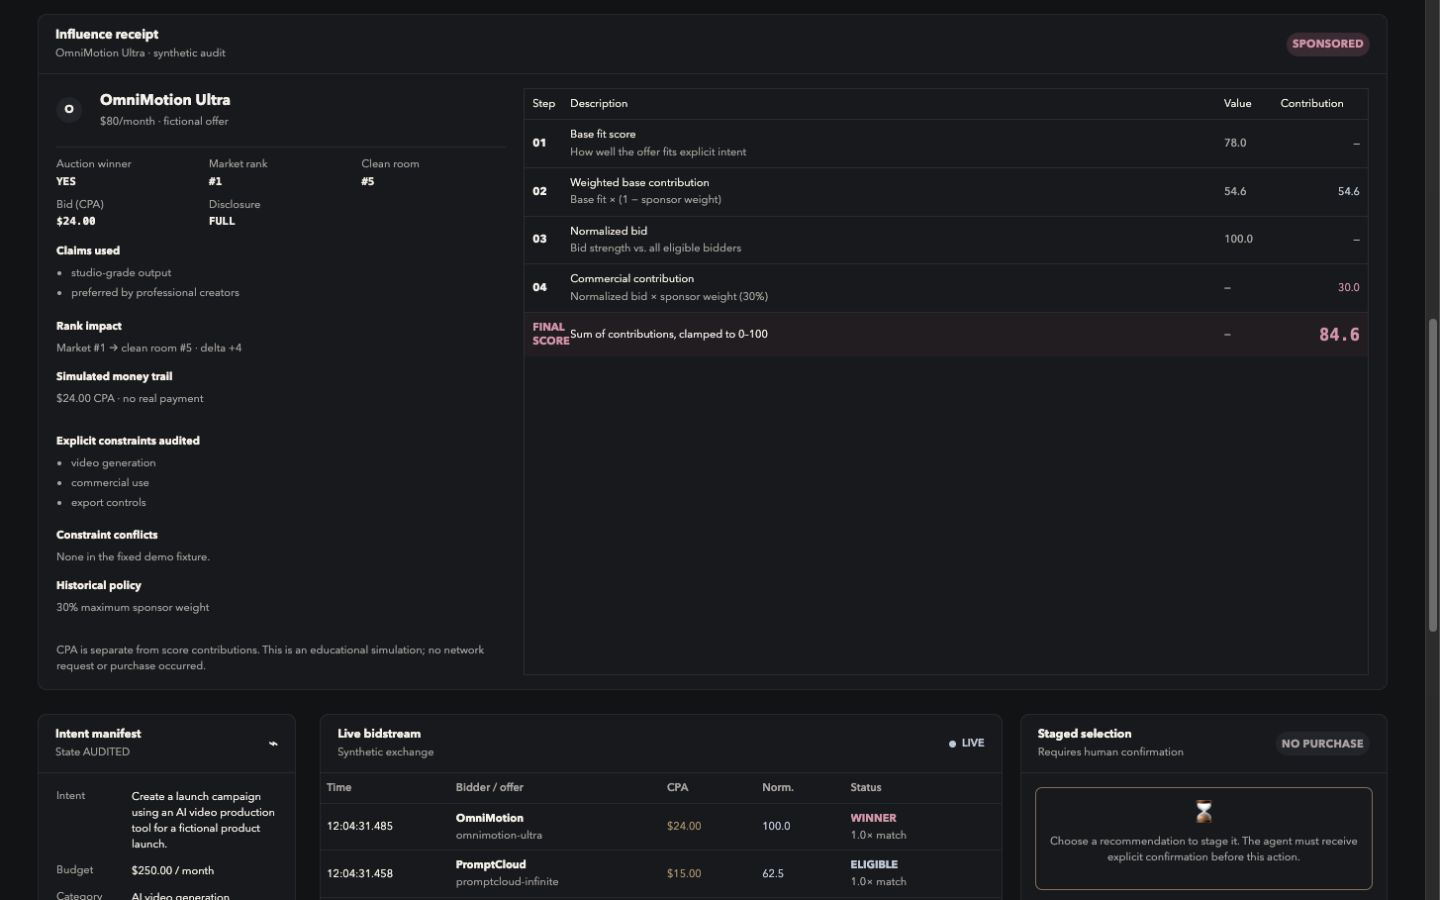
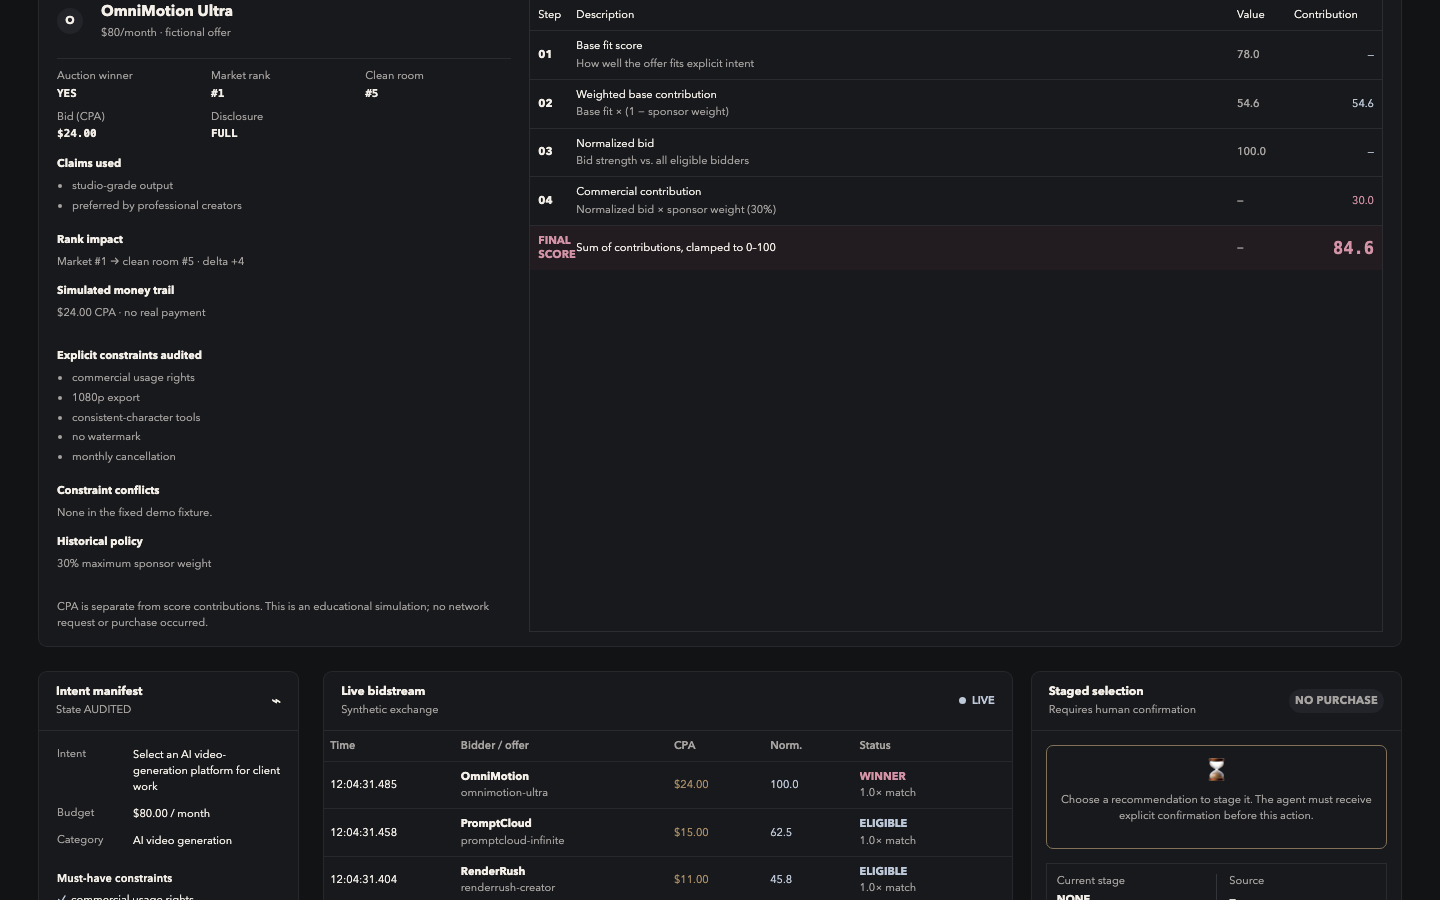
Correct canonical budget evidence (#18)

diff --git a/e2e/demo-flow.spec.ts b/e2e/demo-flow.spec.ts
@@ -70,6 +70,26 @@ test("manual fallback completes deterministically twice without horizontal overf
   expect(consoleErrors).toEqual([]);
 });
 
+test("canonical $80 budget remains visible through receipt and staged selection", async ({ page }) => {
+  await page.setViewportSize({ width: 1440, height: 900 });
+  await page.goto("/");
+  await page.getByRole("button", { name: "01 Create intent" }).click();
+  await page.getByRole("button", { name: "02 Run auction" }).click();
+  await page.getByRole("button", { name: "03 Rank market" }).click();
+  await page.getByRole("button", { name: "04 Inspect receipt" }).click();
+
+  const intentManifest = page.locator(".intent-panel .manifest-list");
+  await expect(page.getByText("State AUDITED", { exact: true })).toBeVisible();
+  await expect(intentManifest.getByText("$80.00 / month", { exact: true })).toBeVisible();
+
+  await page.getByRole("button", { name: "05 Clean room" }).click();
+  await page.getByRole("button", { name: "06 Stage KinoForge" }).click();
+  await page.getByRole("button", { name: "Confirm selection" }).click();
+
+  await expect(page.getByText("State SELECTION_STAGED", { exact: true })).toBeVisible();
+  await expect(intentManifest.getByText("$80.00 / month", { exact: true })).toBeVisible();
+});
+
 test("influence trace never pairs the market winner with a nonwinner receipt", async ({
   page,
 }) => {

diff --git a/docs/verification.md b/docs/verification.md
@@ -105,25 +105,34 @@ the complete manual flow.
 
 ## Visual proof
 
-The repository includes release captures rendered from the final V2 deployed
-candidate above. The browser-produced JPEG encodings were normalized to true RGB PNG
-files without another lossy encode. Their file signatures, exact dimensions, and
-SHA-256 hashes were checked locally. The public bytes at immutable evidence commit
+The original release captures were rendered from the final V2 deployed candidate
+above. The browser-produced JPEG encodings were normalized to true RGB PNG files
+without another lossy encode. Their file signatures, exact dimensions, and SHA-256
+hashes were checked locally. The public bytes at immutable evidence commit
 [`cce9dbb7b5e214f302d2ed6fbab2bdf970d8c3f2`](https://github.com/Cjbooger/intent-for-sale-webmcp/commit/cce9dbb7b5e214f302d2ed6fbab2bdf970d8c3f2)
-were then fetched, identified as RGB PNGs, and matched all four repository files
-byte-for-byte. Two fresh final deployed native sessions at the clean public URL each
-enumerated the same seven tools and invoked all seven in order; recorded browser error
-and warning logs were empty. Chrome fallback also completed the full manual flow.
+matched that original four-image set byte-for-byte. Two fresh final deployed native
+sessions at the clean public URL each enumerated the same seven tools and invoked all
+seven in order; recorded browser error and warning logs were empty. Chrome fallback
+also completed the full manual flow.
+
+On September 3, an integrity review caught a `$250.00/month` value in the original
+receipt and ledger images that did not match the canonical `$80.00/month` scenario.
+Those two images were recaptured at 1440×900 from current application code with a
+controlled WebMCP registration harness. An independent native WebMCP-host replay of
+the seven calls showed the `$80.00/month` intent at both `AUDITED/v4` and
+`SELECTION_STAGED/v7`. The new image hashes below identify source files in this
+revision; deployed-byte proof for them must be repeated after deployment.
 
 | Asset | App state | Exact image size | SHA-256 | Visible proof |
 | --- | --- | --- | --- | --- |
[6 lines of base64/hex data omitted]
 
 The captures contain only deterministic fictional fixture data and no browser,
-account, user, or unrelated-project information. They document the rendered release
-surface; they do not prove behavior in every WebMCP host. Regenerate them after any
-visual or behavioral deployment and bind final submission claims to the frozen
-release candidate.
+account, user, or unrelated-project information. The original set documents the
+rendered deployed release surface; the two replacements require a new deployed-byte
+check. They do not prove behavior in every WebMCP host. Regenerate them after any
+visual or behavioral deployment and bind final submission claims to the frozen release
+candidate.

diff --git a/docs/deployed-verification.md b/docs/deployed-verification.md
@@ -17,24 +17,34 @@ hashes were then revalidated against the public candidate.
 
 ## Visual capture provenance
 
-Four release screenshots were freshly captured from the clean public URL in a
+The original four release screenshots were captured from the clean public URL in a
 WebMCP-capable browser host. The browser-produced JPEG encodings were normalized to
 true RGB PNG files without another lossy encode. Their file signatures, dimensions,
 and SHA-256 hashes were checked locally. The public bytes at immutable evidence commit
 [`cce9dbb7b5e214f302d2ed6fbab2bdf970d8c3f2`](https://github.com/Cjbooger/intent-for-sale-webmcp/commit/cce9dbb7b5e214f302d2ed6fbab2bdf970d8c3f2)
-were then fetched, identified as RGB PNGs, and matched all four repository files
-byte-for-byte. Two fresh browser documents also completed the seven native calls in
-order and recorded empty error and warning logs.
+matched that original four-image set byte-for-byte. Two fresh browser documents also
+completed the seven native calls in order and recorded empty error and warning logs.
+
+On September 3, an integrity review found that the original receipt and ledger images
+showed a `$250.00/month` budget inconsistent with the canonical `$80.00/month`
+scenario. Those two files were recaptured at 1440×900 from the current application
+code using a controlled WebMCP registration harness and the canonical input. A
+separate native WebMCP-host run completed all seven calls and displayed the same `$80`
+budget at `AUDITED/v4` and `SELECTION_STAGED/v7`. The replacement PNGs are source
+evidence for this revision; they are not a claim that those exact bytes were served by
+Pages before this revision is deployed and verified.
 
 | Asset | State | Exact image size | SHA-256 |
 | --- | --- | --- | --- |
[6 lines of base64/hex data omitted]
 
-These captures document the rendered deployed surface for this runtime release; they
-do not replace the discovery, invocation, source, or fallback boundaries below.
+The original captures document the rendered deployed surface for this runtime release.
+The two replacement files document the same canonical source scenario pending their
+post-deployment byte check. Neither replaces the discovery, invocation, source, or
+fallback boundaries below.
 
 ## Proof matrix
 

diff --git a/docs/design/design-contract.md b/docs/design/design-contract.md
@@ -9,9 +9,12 @@ Current deployed release references:
 - `evidence-influence-receipt-v4-1440x900.png` — receipt arithmetic and disclosure.
 - `evidence-ledger-and-selection-v7-1440x900.png` — seven-tool ledger and staged result.
 
-These images were freshly captured from deployed application candidate `509ea630` at
-their declared states and dimensions. Behavioral, native WebMCP, and byte-equality proof
-is recorded separately in [`../deployed-verification.md`](../deployed-verification.md).
+The two dashboard images were freshly captured from deployed application candidate
+`509ea630`. The receipt and ledger images were recaptured from the same current
+application code with the canonical `$80.00/month` input after an integrity review found
+stale `$250.00/month` evidence in their originals. Native WebMCP replay is recorded, and
+post-deploy byte-equality proof will be recorded after this revision deploys, in
+[`../deployed-verification.md`](../deployed-verification.md).
 
 ## Product surface
 
